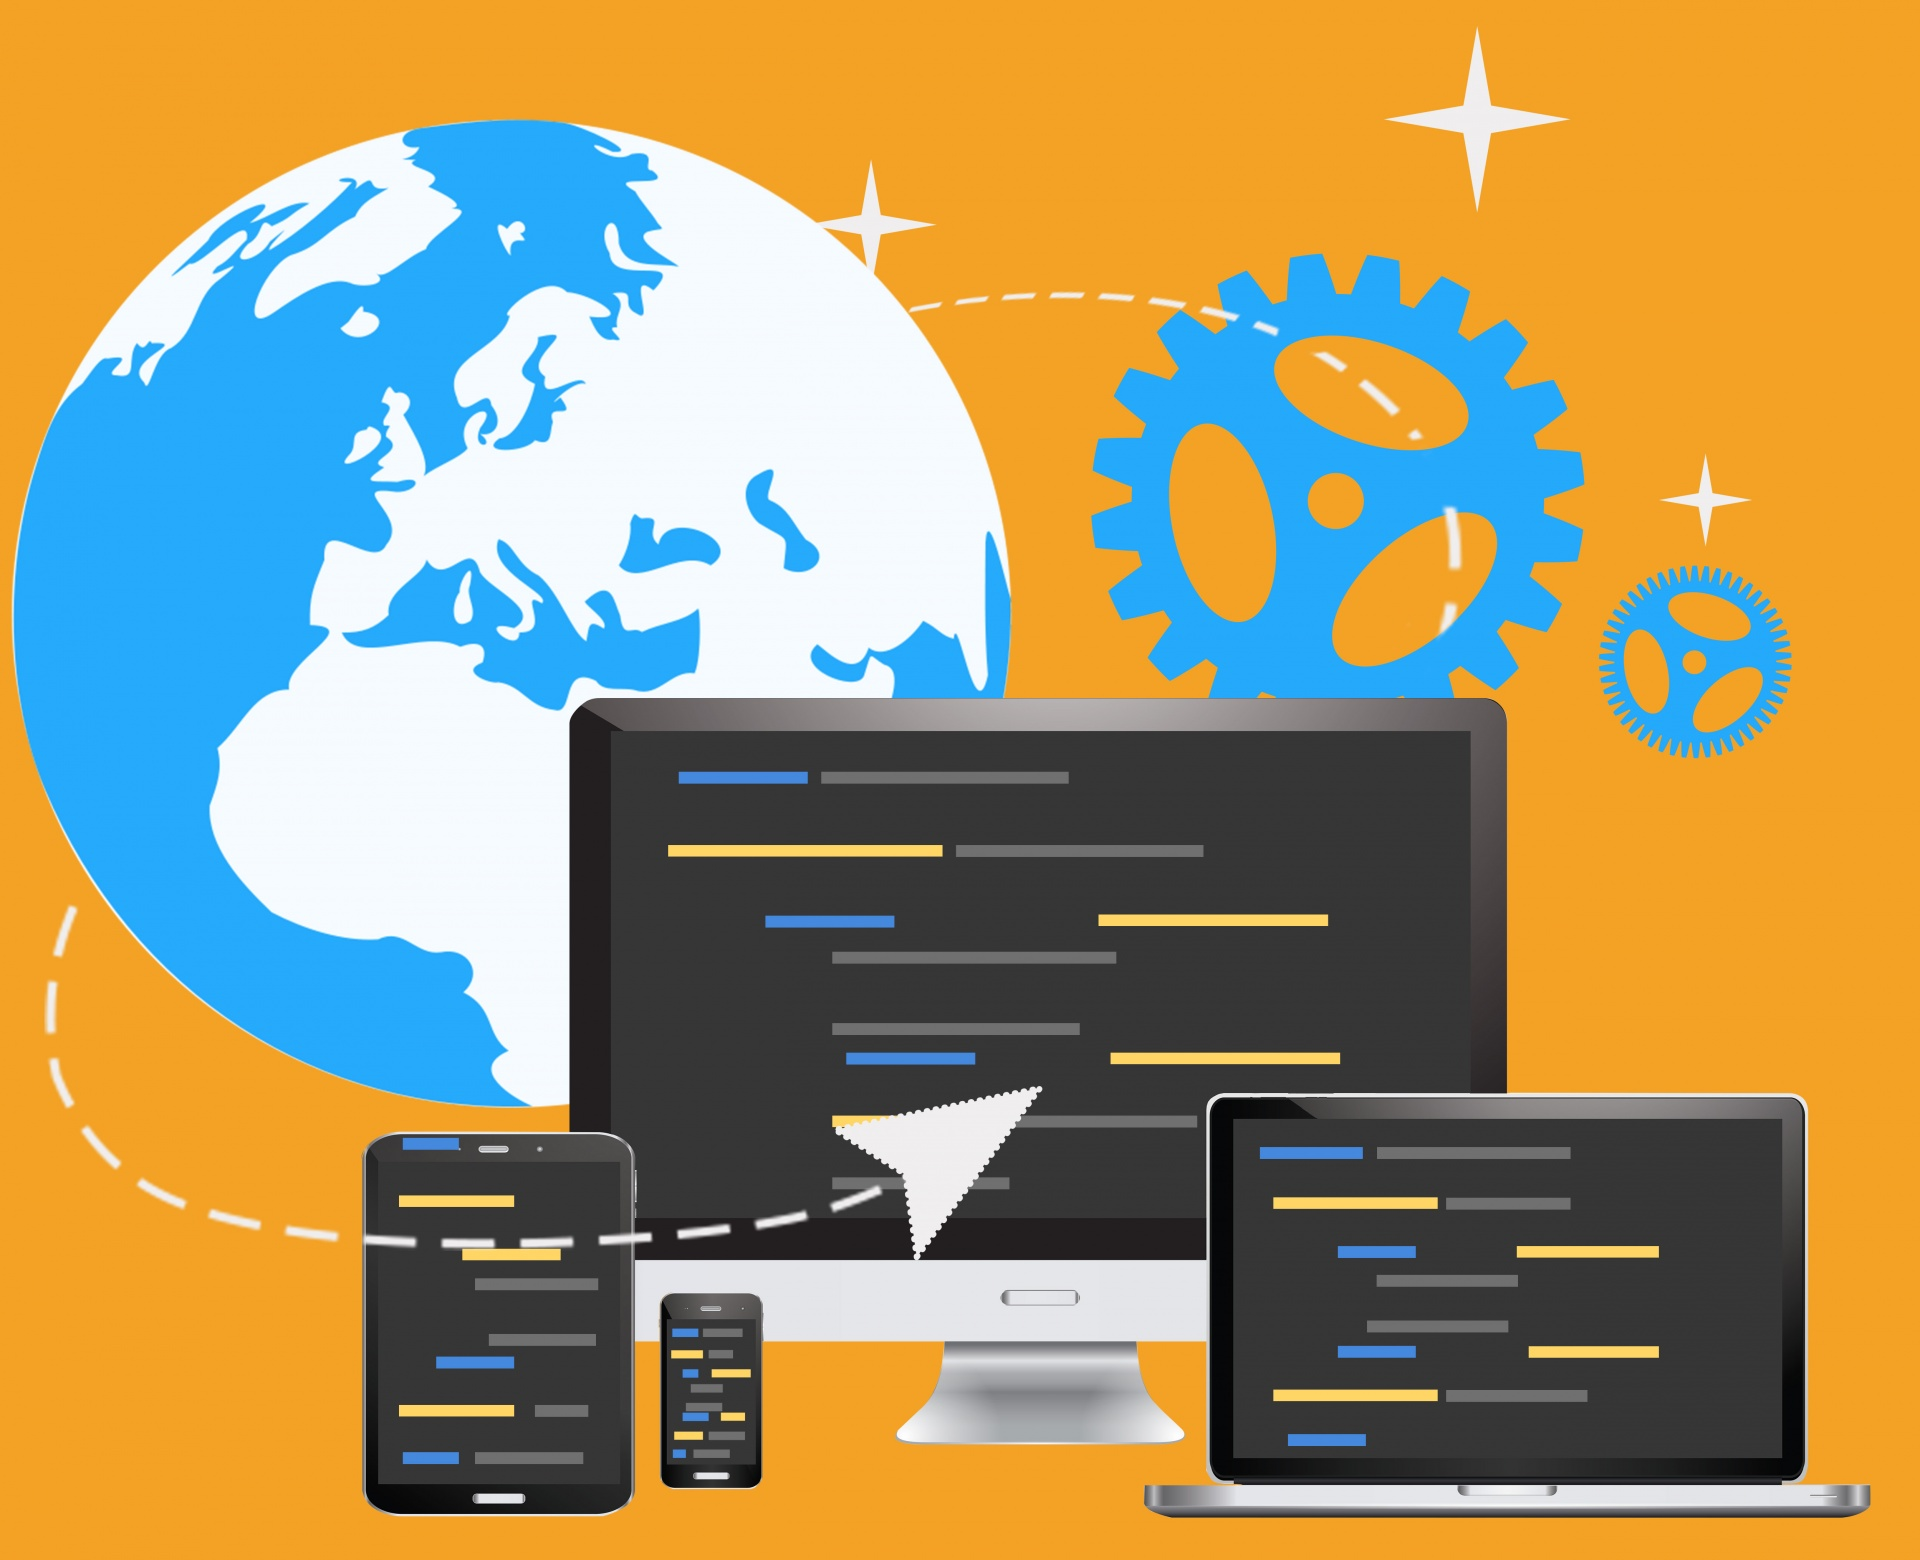
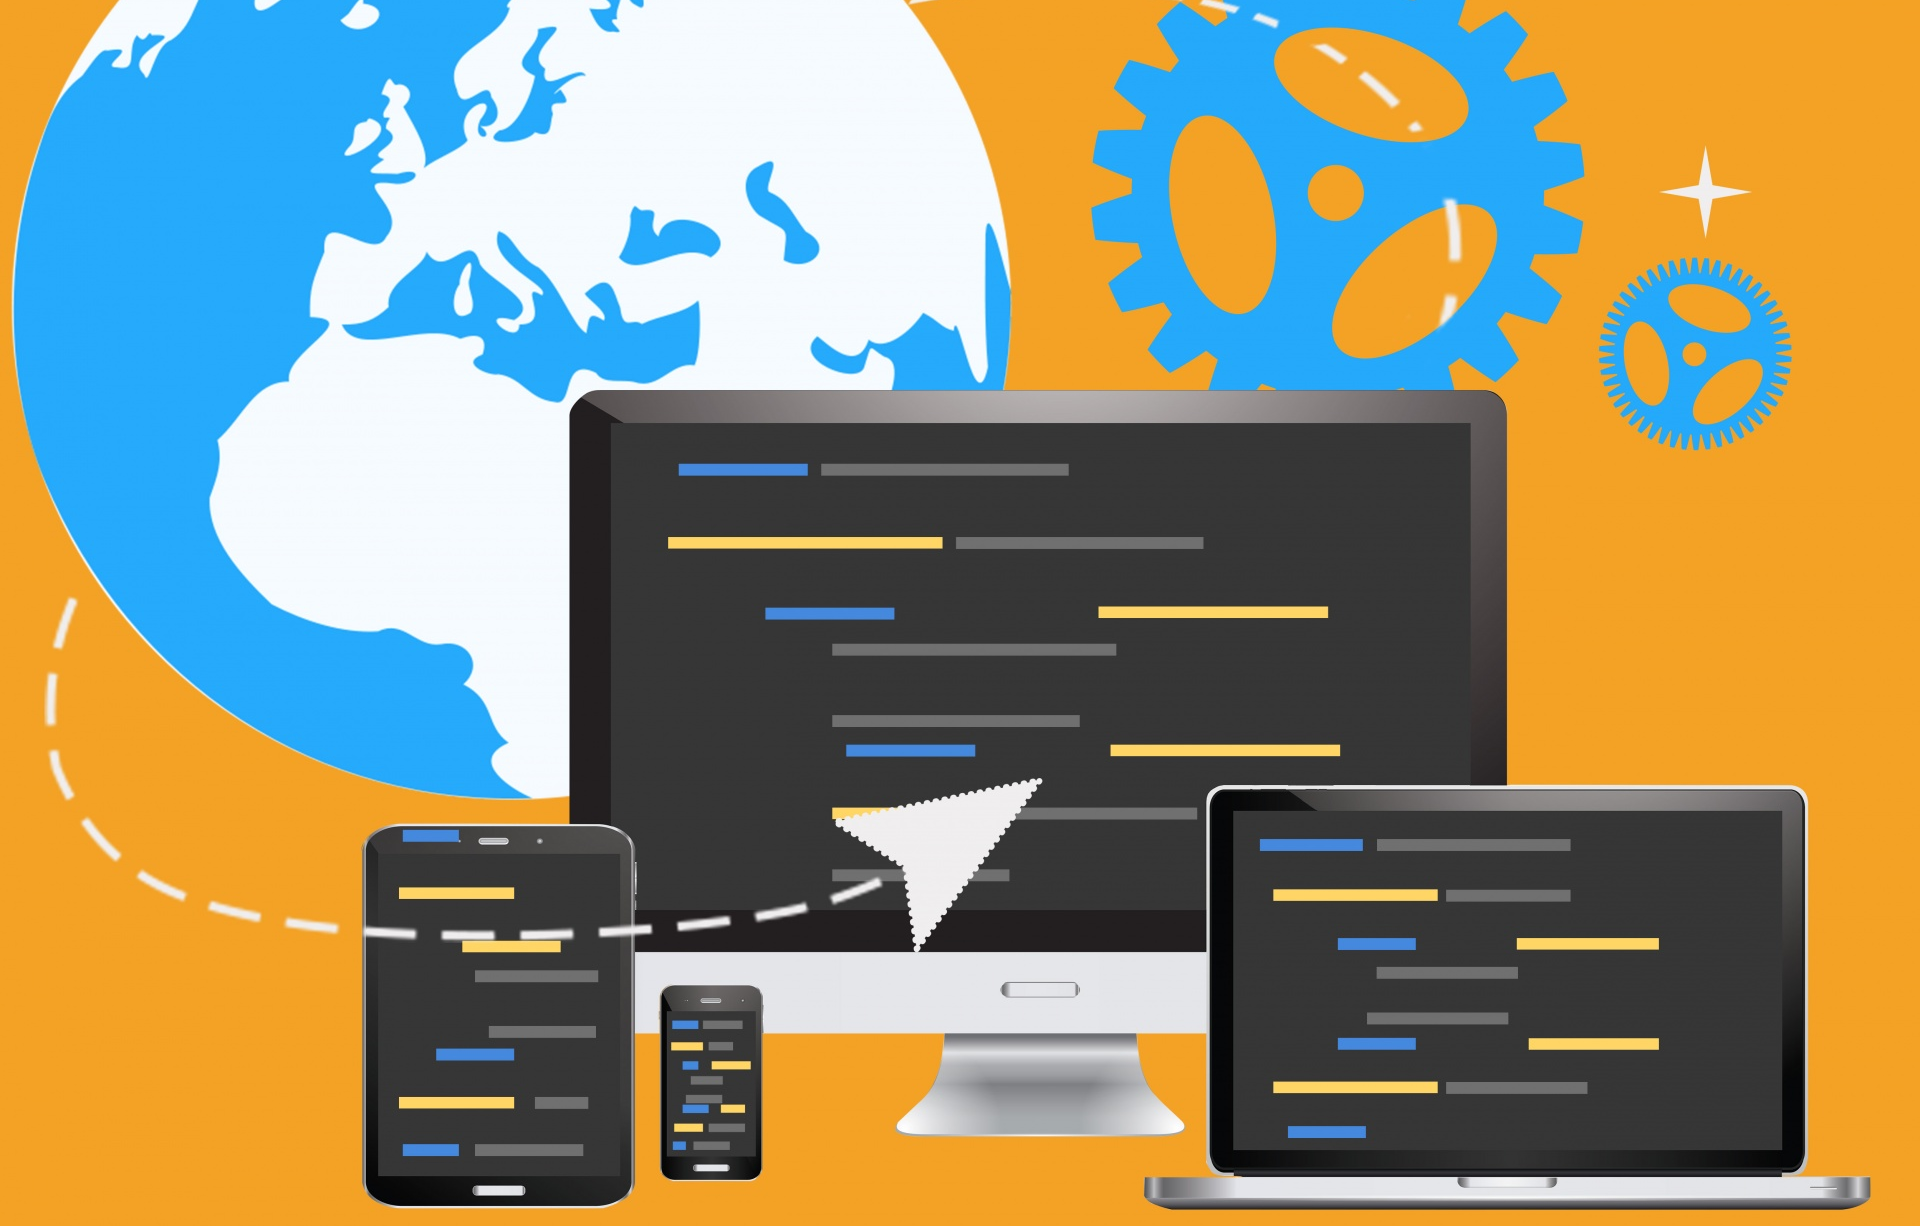
slideshow

diff --git a/index.html b/index.html
@@ -42,14 +42,16 @@
 	</nav>
 </header>
 <body>
-    <div class="container">
-	<img class="top-banner" src="img/img3_C.png">
+    <div class="container">  
+            <img class="top-banner slide" src="img/img3_C.png">
+            <img class="top-banner slide" src="img/img2_C.png">
+            <img class="top-banner slide" src="img/img1_C.png">
         <h1 style="text-align: center;">About</h1>
         <hr style="width:40%;" />
         <p style="text-align:center;">Lorem ipsum dolor sit amet, consectetur adipiscing elit. Age nunc isti doceant, vel tu potius quis enim ista melius? Contemnit enim disserendi elegantiam, confuse loquitur. At ego quem huic anteponam non audeo dicere; Quamquam te quidem video minime esse deterritum. At multis se probavit. Duo Reges: constructio interrete. Et ille ridens: Video, inquit, quid agas; Sit hoc ultimum bonorum, quod nunc a me defenditur;</p>
     </div>
-    <div
+    <script src="javascript.js" type="text/javascript"></script>
 </body>
-<script src="javascript.js" type="text/javascript"></script>
+
 </html>
 

diff --git a/javascript.js b/javascript.js
@@ -13,3 +13,17 @@ window.onclick = function(event){
 		}
 	}
 }
+var slideIndex = 0;
+carousel();
+
+function carousel() {
+    var i;
+    var x = document.getElementsByClassName("slide");
+    for (i = 0; i < x.length; i++) {
+        x[i].style.display = "none";
+    }
+    slideIndex++;
+    if (slideIndex > x.length) { slideIndex = 1 }
+    x[slideIndex - 1].style.display = "block";
+    setTimeout(carousel, 4000); // Change image every 2 seconds
+}

diff --git a/style.css b/style.css
@@ -14,9 +14,11 @@ h1{
     margin: 0 auto;
     height: auto;
     padding: 5px;
+    padding-top:3.5%;
     margin-top:20px;
     
 }
+
 /* nav bar start*/
 nav ul li a {
 text-decoration: none;
@@ -82,6 +84,8 @@ width:90%;
 display: block;
 margin: 0 auto;
 height: auto;
+left: 17.6%;
+
 }
 nav ul li a {
 text-decoration: none;
